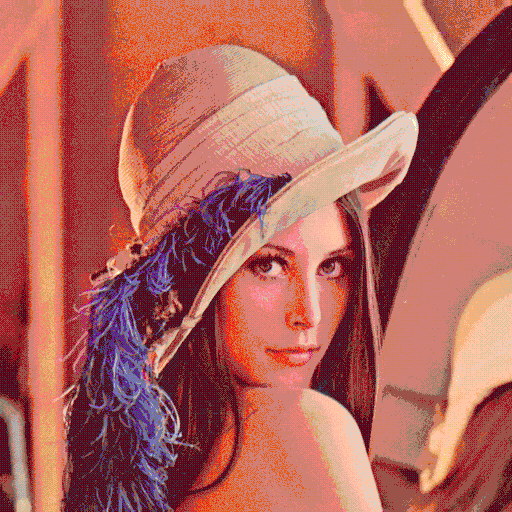
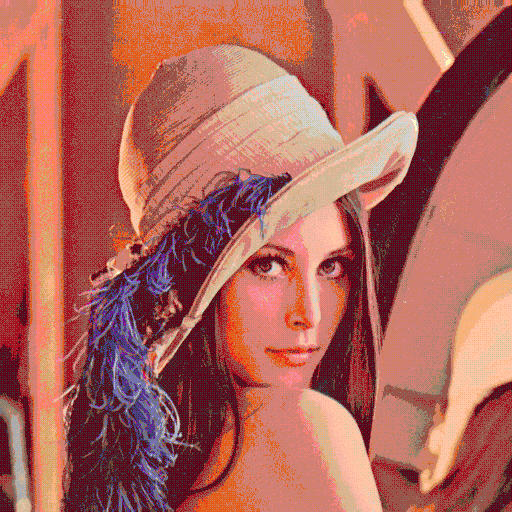
Use alternate p0 and p1 calculation

diff --git a/src/image/Dither.cpp b/src/image/Dither.cpp
@@ -12,6 +12,7 @@
 #include <string>
 #include <utility>
 #include <vector>
+#include <cfloat>
 
 bool Dither::m_mono = false;
 bool Dither::m_ditherAlpha = false;
@@ -77,8 +78,6 @@ void Dither::OrderedDither(Image& image, const Palette& palette) {
 
 			Colour pixel = colours[indexCol];
 
-			//SetColourMathMode(m_mathMode);
-
 			// ===== CHECK MEMOISATION =====
 
 			DitherInfo info;
@@ -94,61 +93,33 @@ void Dither::OrderedDither(Image& image, const Palette& palette) {
 
 				ditherMem[pixel] = info;
 			} else {
-				// Find p0 and p1
+				// ========== Find P0 ==========
+				info.p0 = ClosestColour(pixel, palette, image.IsGrayscale());
 
-				size_t i0 = 0, i1 = 1;
-				//double d0 = pixel.MagSq(palette.GetColour(0));
-				//double d1 = pixel.MagSq(palette.GetColour(1));
+				// ========== Find P1 ==========
+				Colour dir = pixel - info.p0;
+				double bestDist = DBL_MAX;
+				info.p1 = info.p0;
 
-				double d0 = 0., d1 = 0.;
-				if (m_mono) {
-					Colour ci0 = palette.GetColour(0);
-					Colour ci1 = palette.GetColour(1);
-					Colour pixel_gs = pixel;
+				for (size_t i = 0; i < palette.size(); ++i) {
+					Colour p = palette.GetColour(i);
 
-					ci0.ToGrayscale();
-					ci1.ToGrayscale();
-					pixel_gs.ToGrayscale();
+					if (p == info.p0) continue;
 
-					d0 = pixel_gs.MagSq(ci0);
-					d1 = pixel_gs.MagSq(ci1);
-				} else {
-					d0 = pixel.MagSq(palette.GetColour(0));
-					d1 = pixel.MagSq(palette.GetColour(1));
-				}
+					Colour dp = p - info.p0;
+					double proj = dp.Dot(dir);
 
-				if (d1 < d0) {
-					std::swap(d0, d1);
-					std::swap(i0, i1);
-				}
+					// Must be in forward direction
+					if (proj <= 0.) continue;
 
-				for (size_t i = 2; i < palette.size(); ++i) {
-					double d;
-
-					if (m_mono) {
-						Colour pal_gs = palette.GetColour(i);
-						Colour pixel_gs = pixel;
-
-						pal_gs.ToGrayscale();
-						pixel_gs.ToGrayscale();
-
-						d = pixel_gs.MagSq(pal_gs);
-					} else {
-						d = pixel.MagSq(palette.GetColour(i));
-					}
-
-					if (d < d0) {
-						d1 = d0; i1 = i0;
-						d0 = d;  i0 = i;
-					} else if (d < d1) {
-						d1 = d;  i1 = i;
+					double d2 = dp.LengthSq();
+					if (d2 < bestDist) {
+						bestDist = d2;
+						info.p1 = p;
 					}
 				}
 
-				info.p0 = palette.GetColour(i0);
-				info.p1 = palette.GetColour(i1);
-
-				// Calculate Alpha value
+				// ========== Calculate Alpha value ==========
 
 				if (m_mono) {
 					Colour p1_gs = info.p1;
@@ -159,19 +130,17 @@ void Dither::OrderedDither(Image& image, const Palette& palette) {
 					p0_gs.ToGrayscale();
 					pixel_gs.ToGrayscale();
 
-					const double p0_d = std::sqrt(p0_gs.MagSq(pixel_gs));
-					const double p1_d = std::sqrt(p1_gs.MagSq(pixel_gs));
+					const Colour d = p1_gs - p0_gs;
+					const double denom = d.LengthSq();
 
-					const double sum_d = p0_d + p1_d;
-
-					info.alpha = p0_d / sum_d;
+					info.alpha = d.Dot(pixel_gs - p0_gs) / denom;
+				} else if (info.p1 == info.p0) {
+					info.alpha = 0.;
 				} else {
-					const double p0_d = std::sqrt(info.p0.MagSq(pixel));
-					const double p1_d = std::sqrt(info.p1.MagSq(pixel));
+					const Colour d = info.p1 - info.p0;
+					const double denom = d.LengthSq();
 
-					const double sum_d = p0_d + p1_d;
-
-					info.alpha = p0_d / sum_d;
+					info.alpha = d.Dot(pixel - info.p0) / denom;
 				}
 
 				info.alpha = std::clamp(info.alpha, 0., 1.);

diff --git a/src/main.cpp b/src/main.cpp
@@ -57,9 +57,9 @@ int main(int argc, char* argv[]) {
 	//std::string imageLoc = "data/alphaTest-tiles.png";
 	//std::string imageLoc = "data/alphaTest-gradient.png";
 	//std::string imageLoc = "data/grayscale.png";
-	//std::string imageLoc = "data/gs-gradient.png";
+	std::string imageLoc = "data/gs-gradient.png";
 	//std::string imageLoc = "data/gs-tiles.png";
-	std::string imageLoc = "data/lenna.png";
+	//std::string imageLoc = "data/lenna.png";
 	Image::ImageType imageType = Image::GetFileType(imageLoc.c_str());
 	if (imageType == Image::ImageType::NA) {
 		Log::WriteOneLine("Image not found");
@@ -68,10 +68,10 @@ int main(int argc, char* argv[]) {
 		return EXIT_FAILURE;
 	}
 
-	std::string paletteLocStr = "data/wplace_premium.palette";
+	//std::string paletteLocStr = "data/wplace_premium.palette";
 	//std::string paletteLocStr = "data/minecraft_map_sc.palette";
 	//std::string paletteLocStr = "data/gameboy.palette";
-	//std::string paletteLocStr = "data/bw.palette";
+	std::string paletteLocStr = "data/bw.palette";
 	std::ifstream paletteLoc(paletteLocStr);
 	if (!(paletteLoc)) {
 		Log::WriteOneLine("Palette not found");

diff --git a/src/image/Palette.h b/src/image/Palette.h
@@ -19,7 +19,7 @@ public:
 	/// <summary>
 	/// Average spread between one colour and other colours
 	/// </summary>
-	Colour GetAverageSpread() const { return m_avgSpread; };
+	Colour GetAverageSpread() const { return m_avgSpread; }
 
 private:
 	std::vector<Colour> m_colours;
